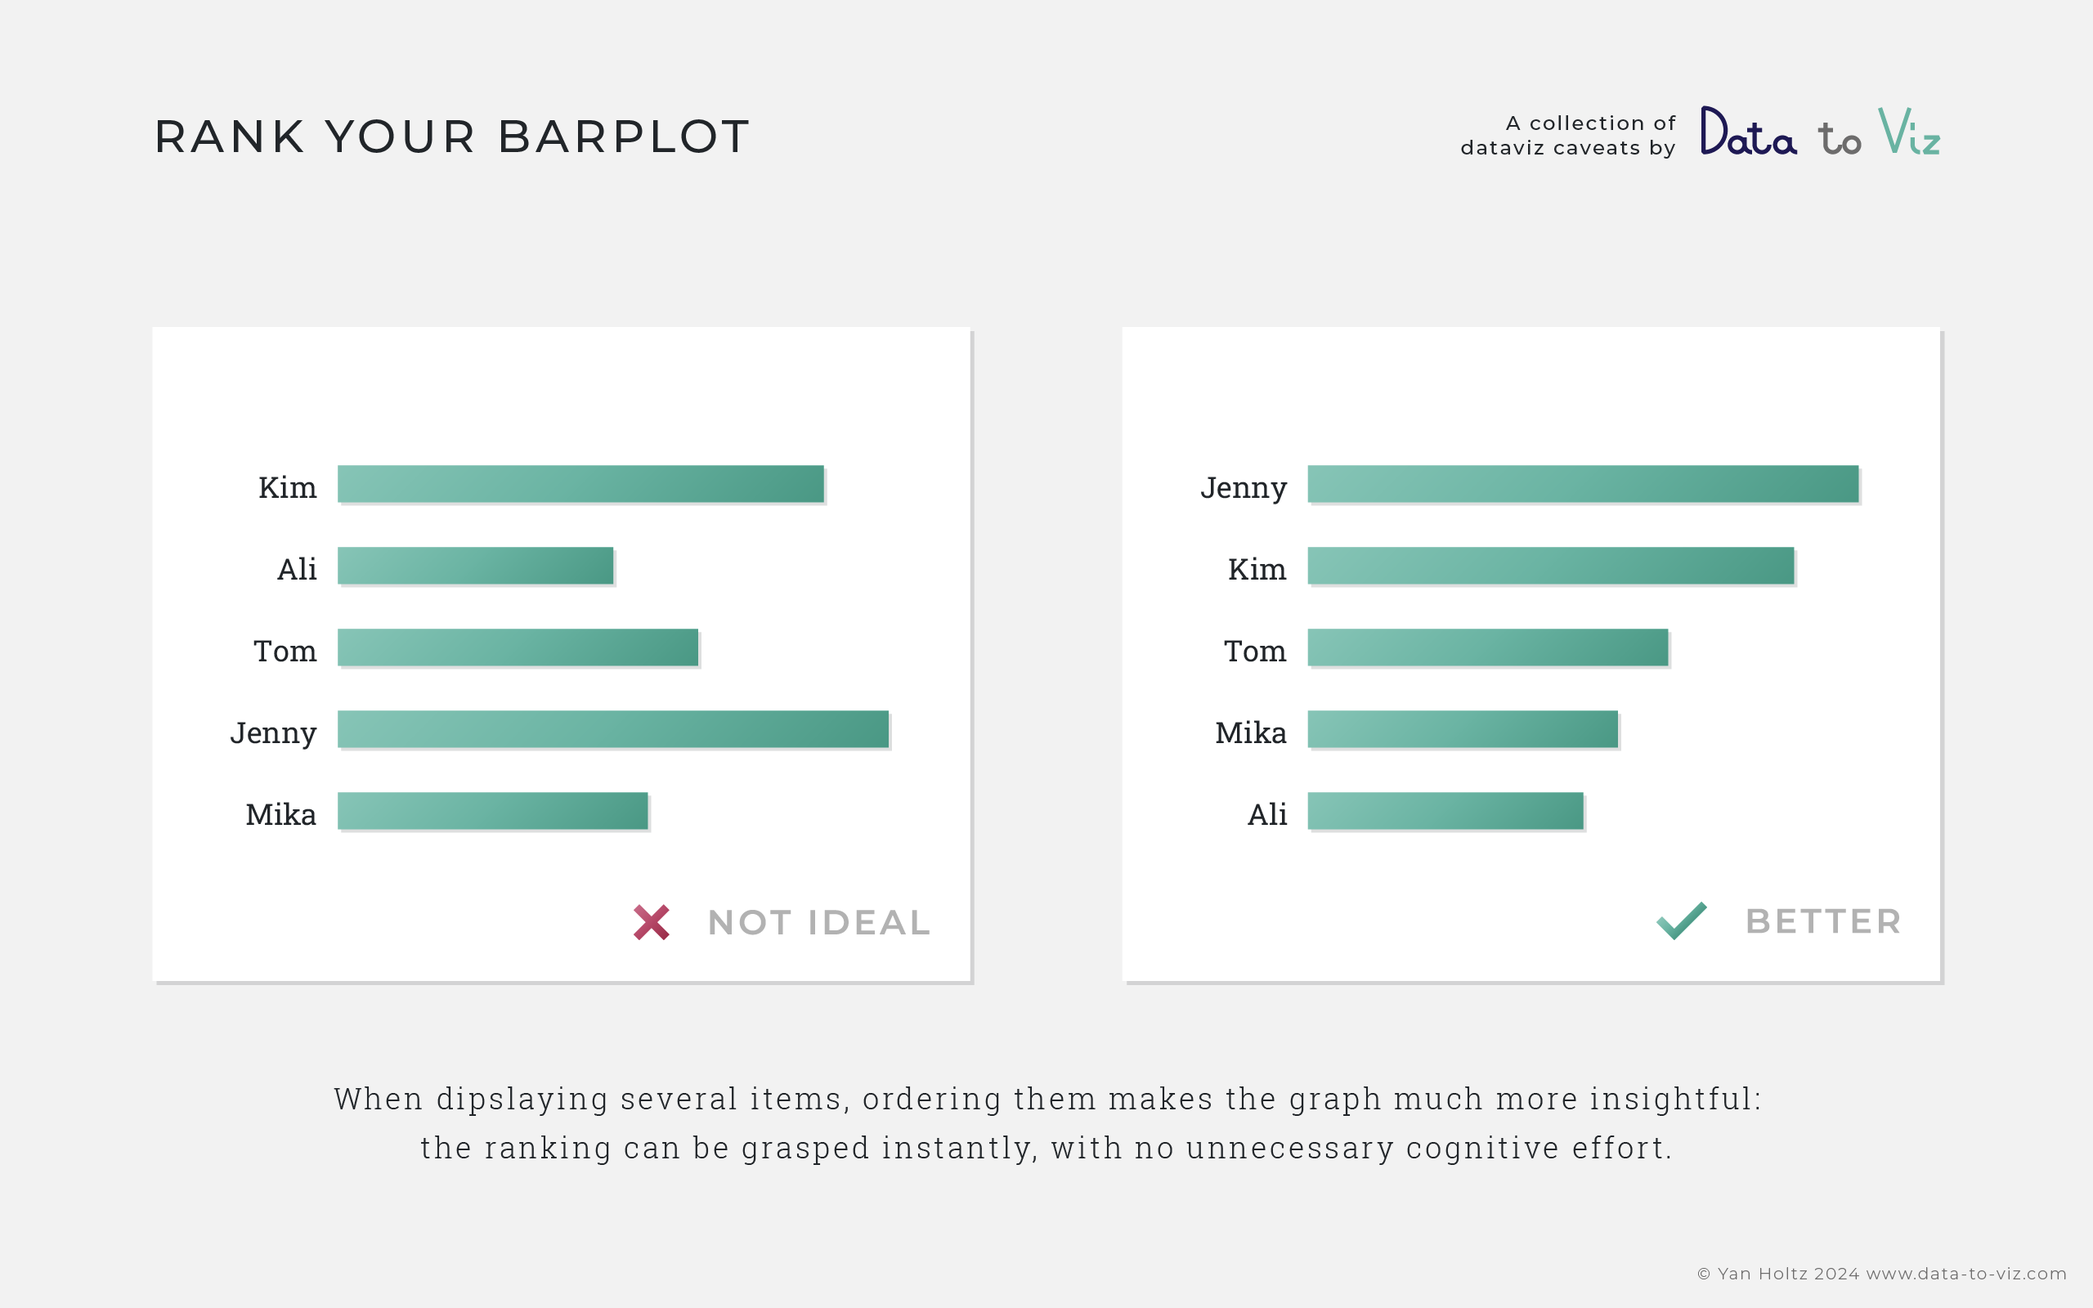
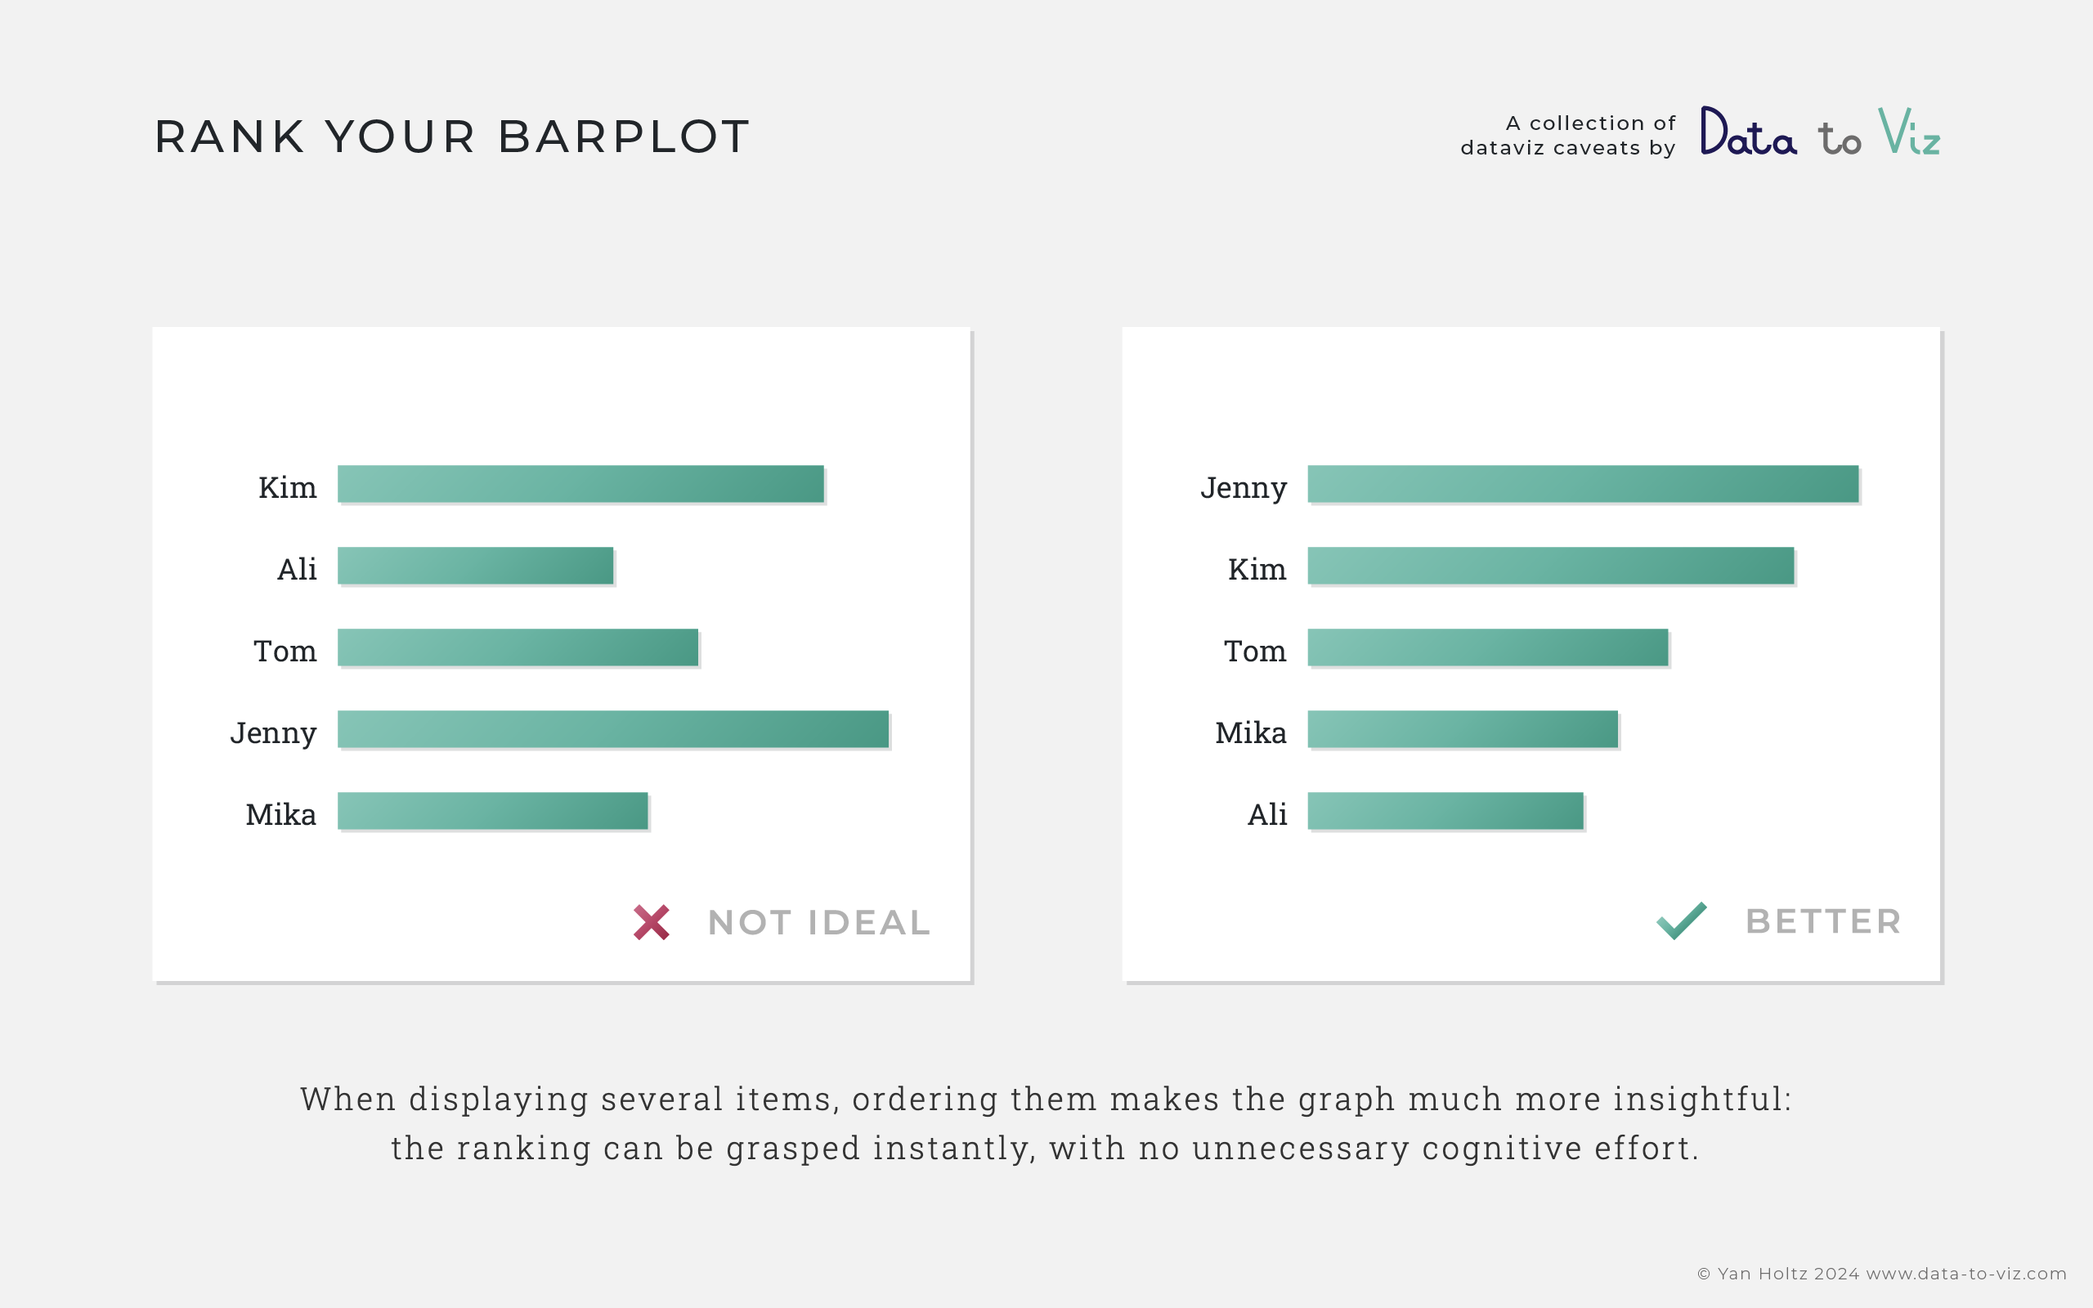
Caveats: read flashcard sections and article links from caveats.json
The sync script now reads caveats.json from the flashcard repo instead of
parsing its README, and writes each card's article link into lib/flashcards.ts.
The hard-coded card-to-article map on the caveats page is gone.
Also pulls the fixed captions of cards 01 and 07.

Changed region(s): [[0.1562, 0.8125, 0.8438, 0.9062]]

diff --git a/lib/flashcards.ts b/lib/flashcards.ts
@@ -1,6 +1,7 @@
 // Generated by scripts/sync-flashcards.mjs from github.com/holtzy/dataviz-caveat-flashcards — do not edit by hand.
 
-export type Flashcard = { id: string; number: number; title: string; image: string; thumb: string };
+/** article: the page that covers the same caveat, on this site or elsewhere. */
+export type Flashcard = { id: string; number: number; title: string; image: string; thumb: string; article?: string };
 export type FlashcardSection = { id: string; title: string; cards: Flashcard[] };
 
 /** Size of the full cards and of the thumbnails (cropped to the two panels). */
@@ -17,42 +18,48 @@ export const FLASHCARD_SECTIONS: FlashcardSection[] = [
         "number": 3,
         "title": "Do not cut the y-axis",
         "image": "/flashcards/03-do-not-cut-y-axis.webp",
-        "thumb": "/flashcards/thumbs/03-do-not-cut-y-axis.webp"
+        "thumb": "/flashcards/thumbs/03-do-not-cut-y-axis.webp",
+        "article": "/caveat/cut_y_axis.html"
       },
       {
         "id": "05-boxplots-hide-info",
         "number": 5,
         "title": "Boxplots hide information",
         "image": "/flashcards/05-boxplots-hide-info.webp",
-        "thumb": "/flashcards/thumbs/05-boxplots-hide-info.webp"
+        "thumb": "/flashcards/thumbs/05-boxplots-hide-info.webp",
+        "article": "/caveat/boxplot.html"
       },
       {
         "id": "12-avoid-counterintuitive",
         "number": 12,
         "title": "Avoid counterintuitive visuals",
         "image": "/flashcards/12-avoid-counterintuitive.webp",
-        "thumb": "/flashcards/thumbs/12-avoid-counterintuitive.webp"
+        "thumb": "/flashcards/thumbs/12-avoid-counterintuitive.webp",
+        "article": "/caveat/counter_intuitive.html"
       },
       {
         "id": "14-error-bars-on-barplot",
         "number": 14,
         "title": "Error bars on barplots",
         "image": "/flashcards/14-error-bars-on-barplot.webp",
-        "thumb": "/flashcards/thumbs/14-error-bars-on-barplot.webp"
+        "thumb": "/flashcards/thumbs/14-error-bars-on-barplot.webp",
+        "article": "/caveat/error_bar.html"
       },
       {
         "id": "15-dual-y-axis",
         "number": 15,
         "title": "Dual y-axis",
         "image": "/flashcards/15-dual-y-axis.webp",
-        "thumb": "/flashcards/thumbs/15-dual-y-axis.webp"
+        "thumb": "/flashcards/thumbs/15-dual-y-axis.webp",
+        "article": "/caveat/dual_axis.html"
       },
       {
         "id": "19-avoid-3d",
         "number": 19,
         "title": "Avoid 3D",
         "image": "/flashcards/19-avoid-3d.webp",
-        "thumb": "/flashcards/thumbs/19-avoid-3d.webp"
+        "thumb": "/flashcards/thumbs/19-avoid-3d.webp",
+        "article": "/caveat/3d.html"
       },
       {
         "id": "25-avoid-cherry-picking",
@@ -87,7 +94,8 @@ export const FLASHCARD_SECTIONS: FlashcardSection[] = [
         "number": 56,
         "title": "Beware of Simpson's paradox",
         "image": "/flashcards/56-simpsons-paradox.webp",
-        "thumb": "/flashcards/thumbs/56-simpsons-paradox.webp"
+        "thumb": "/flashcards/thumbs/56-simpsons-paradox.webp",
+        "article": "/caveat/simpson.html"
       }
     ]
   },
@@ -100,21 +108,24 @@ export const FLASHCARD_SECTIONS: FlashcardSection[] = [
         "number": 8,
         "title": "Avoid the moiré effect with lollipops",
         "image": "/flashcards/08-avoid-moire-effect.webp",
-        "thumb": "/flashcards/thumbs/08-avoid-moire-effect.webp"
+        "thumb": "/flashcards/thumbs/08-avoid-moire-effect.webp",
+        "article": "https://web.archive.org/web/20181226161528/http://gravyanecdote.com/uncategorized/wrappedbarsthoughts/"
       },
       {
         "id": "13-whats-wrong-with-pie",
         "number": 13,
         "title": "What's wrong with pie charts?",
         "image": "/flashcards/13-whats-wrong-with-pie.webp",
-        "thumb": "/flashcards/thumbs/13-whats-wrong-with-pie.webp"
+        "thumb": "/flashcards/thumbs/13-whats-wrong-with-pie.webp",
+        "article": "/caveat/pie.html"
       },
       {
         "id": "16-radial-bar-chart",
         "number": 16,
         "title": "Radial bar charts distort perception",
         "image": "/flashcards/16-radial-bar-chart.webp",
-        "thumb": "/flashcards/thumbs/16-radial-bar-chart.webp"
+        "thumb": "/flashcards/thumbs/16-radial-bar-chart.webp",
+        "article": "/caveat/circular_barplot_accordeon.html"
       },
       {
         "id": "53-maybe-you-dont-need-a-map",
@@ -135,7 +146,8 @@ export const FLASHCARD_SECTIONS: FlashcardSection[] = [
         "number": 57,
         "title": "Use circular barplots with care",
         "image": "/flashcards/57-circular-barplot-distortion.webp",
-        "thumb": "/flashcards/thumbs/57-circular-barplot-distortion.webp"
+        "thumb": "/flashcards/thumbs/57-circular-barplot-distortion.webp",
+        "article": "/caveat/circular_bar_yaxis.html"
       }
     ]
   },
@@ -148,7 +160,8 @@ export const FLASHCARD_SECTIONS: FlashcardSection[] = [
         "number": 6,
         "title": "Use color intentionally",
         "image": "/flashcards/06-use-color-intentionally.webp",
-        "thumb": "/flashcards/thumbs/06-use-color-intentionally.webp"
+        "thumb": "/flashcards/thumbs/06-use-color-intentionally.webp",
+        "article": "/caveat/color_com_nothing.html"
       },
       {
         "id": "21-optimizing-background-colors",
@@ -197,7 +210,8 @@ export const FLASHCARD_SECTIONS: FlashcardSection[] = [
         "number": 44,
         "title": "Avoid the rainbow palette",
         "image": "/flashcards/44-avoid-the-rainbow-palette.webp",
-        "thumb": "/flashcards/thumbs/44-avoid-the-rainbow-palette.webp"
+        "thumb": "/flashcards/thumbs/44-avoid-the-rainbow-palette.webp",
+        "article": "https://blog.datawrapper.de/colors/"
       },
       {
         "id": "45-diverging-palette",
@@ -266,7 +280,8 @@ export const FLASHCARD_SECTIONS: FlashcardSection[] = [
         "number": 61,
         "title": "Declutter: less is more",
         "image": "/flashcards/61-declutter-less-is-more.webp",
-        "thumb": "/flashcards/thumbs/61-declutter-less-is-more.webp"
+        "thumb": "/flashcards/thumbs/61-declutter-less-is-more.webp",
+        "article": "/caveat/declutter.html"
       }
     ]
   },
@@ -293,7 +308,8 @@ export const FLASHCARD_SECTIONS: FlashcardSection[] = [
         "number": 41,
         "title": "Normalize your maps",
         "image": "/flashcards/41-normalize-your-maps.webp",
-        "thumb": "/flashcards/thumbs/41-normalize-your-maps.webp"
+        "thumb": "/flashcards/thumbs/41-normalize-your-maps.webp",
+        "article": "https://xkcd.com/1138/"
       },
       {
         "id": "51-show-missing-data",
@@ -320,7 +336,8 @@ export const FLASHCARD_SECTIONS: FlashcardSection[] = [
         "number": 2,
         "title": "Prefer horizontal labels",
         "image": "/flashcards/02-prefer-horizontal-labels.webp",
-        "thumb": "/flashcards/thumbs/02-prefer-horizontal-labels.webp"
+        "thumb": "/flashcards/thumbs/02-prefer-horizontal-labels.webp",
+        "article": "/caveat/hard_label.html"
       },
       {
         "id": "11-minimize-use-of-legends",
@@ -348,7 +365,8 @@ export const FLASHCARD_SECTIONS: FlashcardSection[] = [
         "number": 55,
         "title": "Annotation is crucial",
         "image": "/flashcards/55-annotate-your-chart.webp",
-        "thumb": "/flashcards/thumbs/55-annotate-your-chart.webp"
+        "thumb": "/flashcards/thumbs/55-annotate-your-chart.webp",
+        "article": "/caveat/annotation.html"
       },
       {
         "id": "60-dont-label-every-tick",
@@ -368,7 +386,8 @@ export const FLASHCARD_SECTIONS: FlashcardSection[] = [
         "number": 10,
         "title": "Keep colors consistent across charts",
         "image": "/flashcards/10-keep-colors-consistent.webp",
-        "thumb": "/flashcards/thumbs/10-keep-colors-consistent.webp"
+        "thumb": "/flashcards/thumbs/10-keep-colors-consistent.webp",
+        "article": "/caveat/consistency.html"
       },
       {
         "id": "32-share-the-y-axis",
@@ -402,35 +421,40 @@ export const FLASHCARD_SECTIONS: FlashcardSection[] = [
         "number": 1,
         "title": "Rank your barplot",
         "image": "/flashcards/01-rank-your-barplot.webp",
-        "thumb": "/flashcards/thumbs/01-rank-your-barplot.webp"
+        "thumb": "/flashcards/thumbs/01-rank-your-barplot.webp",
+        "article": "/caveat/order_data.html"
       },
       {
         "id": "04-histogram-mind-the-bin",
         "number": 4,
         "title": "Histograms: mind the bin size",
         "image": "/flashcards/04-histogram-mind-the-bin.webp",
-        "thumb": "/flashcards/thumbs/04-histogram-mind-the-bin.webp"
+        "thumb": "/flashcards/thumbs/04-histogram-mind-the-bin.webp",
+        "article": "/caveat/bin_size.html"
       },
       {
         "id": "07-map-bubble-size-to-area",
         "number": 7,
         "title": "Size bubbles by area, not radius",
         "image": "/flashcards/07-map-bubble-size-to-area.webp",
-        "thumb": "/flashcards/thumbs/07-map-bubble-size-to-area.webp"
+        "thumb": "/flashcards/thumbs/07-map-bubble-size-to-area.webp",
+        "article": "/caveat/radius_or_area.html"
       },
       {
         "id": "09-the-spaghetti-chart",
         "number": 9,
         "title": "The spaghetti chart",
         "image": "/flashcards/09-the-spaghetti-chart.webp",
-        "thumb": "/flashcards/thumbs/09-the-spaghetti-chart.webp"
+        "thumb": "/flashcards/thumbs/09-the-spaghetti-chart.webp",
+        "article": "/caveat/spaghetti.html"
       },
       {
         "id": "17-connect-the-dots",
         "number": 17,
         "title": "Connect the dots",
         "image": "/flashcards/17-connect-the-dots.webp",
-        "thumb": "/flashcards/thumbs/17-connect-the-dots.webp"
+        "thumb": "/flashcards/thumbs/17-connect-the-dots.webp",
+        "article": "/caveat/connect_your_dot.html"
       },
       {
         "id": "18-z-index-matters",
@@ -451,14 +475,16 @@ export const FLASHCARD_SECTIONS: FlashcardSection[] = [
         "number": 24,
         "title": "Stacked charts are hard to read",
         "image": "/flashcards/24-stacked-charts-are-hard.webp",
-        "thumb": "/flashcards/thumbs/24-stacked-charts-are-hard.webp"
+        "thumb": "/flashcards/thumbs/24-stacked-charts-are-hard.webp",
+        "article": "/caveat/stacking.html"
       },
       {
         "id": "28-scatter-plot-aspect-ratio",
         "number": 28,
         "title": "Mind your scatter plot's shape",
         "image": "/flashcards/28-scatter-plot-aspect-ratio.webp",
-        "thumb": "/flashcards/thumbs/28-scatter-plot-aspect-ratio.webp"
+        "thumb": "/flashcards/thumbs/28-scatter-plot-aspect-ratio.webp",
+        "article": "/caveat/aspect_ratio.html"
       },
       {
         "id": "30-readable-date-axis",
@@ -472,14 +498,16 @@ export const FLASHCARD_SECTIONS: FlashcardSection[] = [
         "number": 47,
         "title": "Reorder your heatmap",
         "image": "/flashcards/47-reorder-your-heatmap.webp",
-        "thumb": "/flashcards/thumbs/47-reorder-your-heatmap.webp"
+        "thumb": "/flashcards/thumbs/47-reorder-your-heatmap.webp",
+        "article": "/graph/heatmap.html"
       },
       {
         "id": "48-beware-of-overplotting",
         "number": 48,
         "title": "Beware of overplotting",
         "image": "/flashcards/48-beware-of-overplotting.webp",
-        "thumb": "/flashcards/thumbs/48-beware-of-overplotting.webp"
+        "thumb": "/flashcards/thumbs/48-beware-of-overplotting.webp",
+        "article": "/caveat/overplotting.html"
       }
     ]
   }

diff --git a/app/caveats/page.tsx b/app/caveats/page.tsx
@@ -6,6 +6,7 @@ import { RelatedCard } from "@/components/content";
 import { TitleUnderline } from "@/components/title-underline";
 import { DownloadFlashcards } from "./download-flashcards";
 import { FlashcardGallery } from "./flashcard-gallery";
+import { FLASHCARD_SECTIONS } from "@/lib/flashcards";
 
 type CaveatItem = { href: string; image: string; title: string; text: string; tags: string[]; external?: boolean };
 
@@ -16,41 +17,6 @@ export const metadata = pageMetadata({
     "A collection of dataviz caveats: pie charts, cut Y axis, spaghetti plots, error bars, overplotting, 3D, dual axes and more common graphic pitfalls to avoid.",
   image: "/img/parallax/caveat_gallery_overview.png",
 });
-
-/**
- * Flashcard (github.com/holtzy/dataviz-caveat-flashcards) → the article that
- * covers the same caveat. Cards without an entry only open in the lightbox.
- */
-const FLASHCARD_ARTICLES: Record<string, string> = {
-  "01-rank-your-barplot": "/caveat/order_data.html",
-  "02-prefer-horizontal-labels": "/caveat/hard_label.html",
-  "03-do-not-cut-y-axis": "/caveat/cut_y_axis.html",
-  "04-histogram-mind-the-bin": "/caveat/bin_size.html",
-  "05-boxplots-hide-info": "/caveat/boxplot.html",
-  "06-use-color-intentionally": "/caveat/color_com_nothing.html",
-  "07-map-bubble-size-to-area": "/caveat/radius_or_area.html",
-  "08-avoid-moire-effect":
-    "https://web.archive.org/web/20181226161528/http://gravyanecdote.com/uncategorized/wrappedbarsthoughts/",
-  "09-the-spaghetti-chart": "/caveat/spaghetti.html",
-  "10-keep-colors-consistent": "/caveat/consistency.html",
-  "12-avoid-counterintuitive": "/caveat/counter_intuitive.html",
-  "13-whats-wrong-with-pie": "/caveat/pie.html",
-  "14-error-bars-on-barplot": "/caveat/error_bar.html",
-  "15-dual-y-axis": "/caveat/dual_axis.html",
-  "16-radial-bar-chart": "/caveat/circular_barplot_accordeon.html",
-  "17-connect-the-dots": "/caveat/connect_your_dot.html",
-  "19-avoid-3d": "/caveat/3d.html",
-  "24-stacked-charts-are-hard": "/caveat/stacking.html",
-  "28-scatter-plot-aspect-ratio": "/caveat/aspect_ratio.html",
-  "41-normalize-your-maps": "https://xkcd.com/1138/",
-  "44-avoid-the-rainbow-palette": "https://blog.datawrapper.de/colors/",
-  "47-reorder-your-heatmap": "/graph/heatmap.html",
-  "48-beware-of-overplotting": "/caveat/overplotting.html",
-  "55-annotate-your-chart": "/caveat/annotation.html",
-  "56-simpsons-paradox": "/caveat/simpson.html",
-  "57-circular-barplot-distortion": "/caveat/circular_bar_yaxis.html",
-  "61-declutter-less-is-more": "/caveat/declutter.html",
-};
 
 /** The original gallery. Items without a flashcard are listed under "More caveats". */
 const caveats: CaveatItem[] = [
@@ -322,7 +288,8 @@ const caveats: CaveatItem[] = [
 ];
 
 /** Articles of the original gallery that no flashcard covers yet. */
-const covered = new Set(Object.values(FLASHCARD_ARTICLES));
+// Articles a flashcard already links to (from caveats.json in the flashcard repo).
+const covered = new Set(FLASHCARD_SECTIONS.flatMap((s) => s.cards.map((c) => c.article)));
 const moreCaveats = caveats.filter((c) => !covered.has(c.href));
 
 export default function Page() {
@@ -345,7 +312,7 @@ export default function Page() {
         </header>
 
         <div className="mx-auto max-w-[880px] px-6 pt-4 pb-12 sm:px-10">
-          <FlashcardGallery articles={FLASHCARD_ARTICLES} />
+          <FlashcardGallery />
 
           <section aria-labelledby="more-caveats" className="mt-16">
             <h2

diff --git a/app/caveats/flashcard-gallery.tsx b/app/caveats/flashcard-gallery.tsx
@@ -8,11 +8,6 @@ import { FLASHCARD_SECTIONS, FLASHCARD_SIZE, FLASHCARD_THUMB_SIZE, type Flashcar
 import { buttonClass } from "@/lib/button";
 import { cn } from "@/lib/utils";
 
-type Props = {
-  /** Card id → article on data-to-viz.com that covers the same caveat. */
-  articles: Record<string, string>;
-};
-
 /**
  * Caveat flashcards grouped by section. "See card" (or the image) opens it large;
  * cards with a matching article get a "Read more" link to it.
@@ -41,9 +36,9 @@ const VIEWS: Record<
 /** Every card in the order shown on the page, for Previous / Next in the modal. */
 const ALL_CARDS = FLASHCARD_SECTIONS.flatMap((s) => s.cards);
 
-export function FlashcardGallery({ articles }: Props) {
+export function FlashcardGallery() {
   const [open, setOpen] = useState<Flashcard | null>(null);
-  const article = open ? articles[open.id] : undefined;
+  const article = open?.article;
   const index = open ? ALL_CARDS.findIndex((c) => c.id === open.id) : -1;
   const prev = index > 0 ? ALL_CARDS[index - 1] : null;
   const next = index >= 0 && index < ALL_CARDS.length - 1 ? ALL_CARDS[index + 1] : null;
@@ -99,8 +94,8 @@ export function FlashcardGallery({ articles }: Props) {
                       <button type="button" onClick={() => setOpen(card)} className={buttonClass("secondary", "sm")}>
                         See card
                       </button>
-                      {articles[card.id] && (
-                        <a href={articles[card.id]} className={buttonClass("primary", "sm")}>
+                      {card.article && (
+                        <a href={card.article} className={buttonClass("primary", "sm")}>
                           Read more
                         </a>
                       )}
@@ -109,9 +104,9 @@ export function FlashcardGallery({ articles }: Props) {
                   {/* Caption band, a lighter gray than the image area. */}
                   <div className="flex-1 bg-[#f9f9f9] px-3 py-2.5">
                     <p className="text-[15px] leading-snug text-slate-700">{card.title}</p>
-                    {articles[card.id] && (
+                    {card.article && (
                       <a
-                        href={articles[card.id]}
+                        href={card.article}
                         className="link mt-1 inline-block text-sm [@media(hover:hover)]:hidden"
                       >
                         Read more
